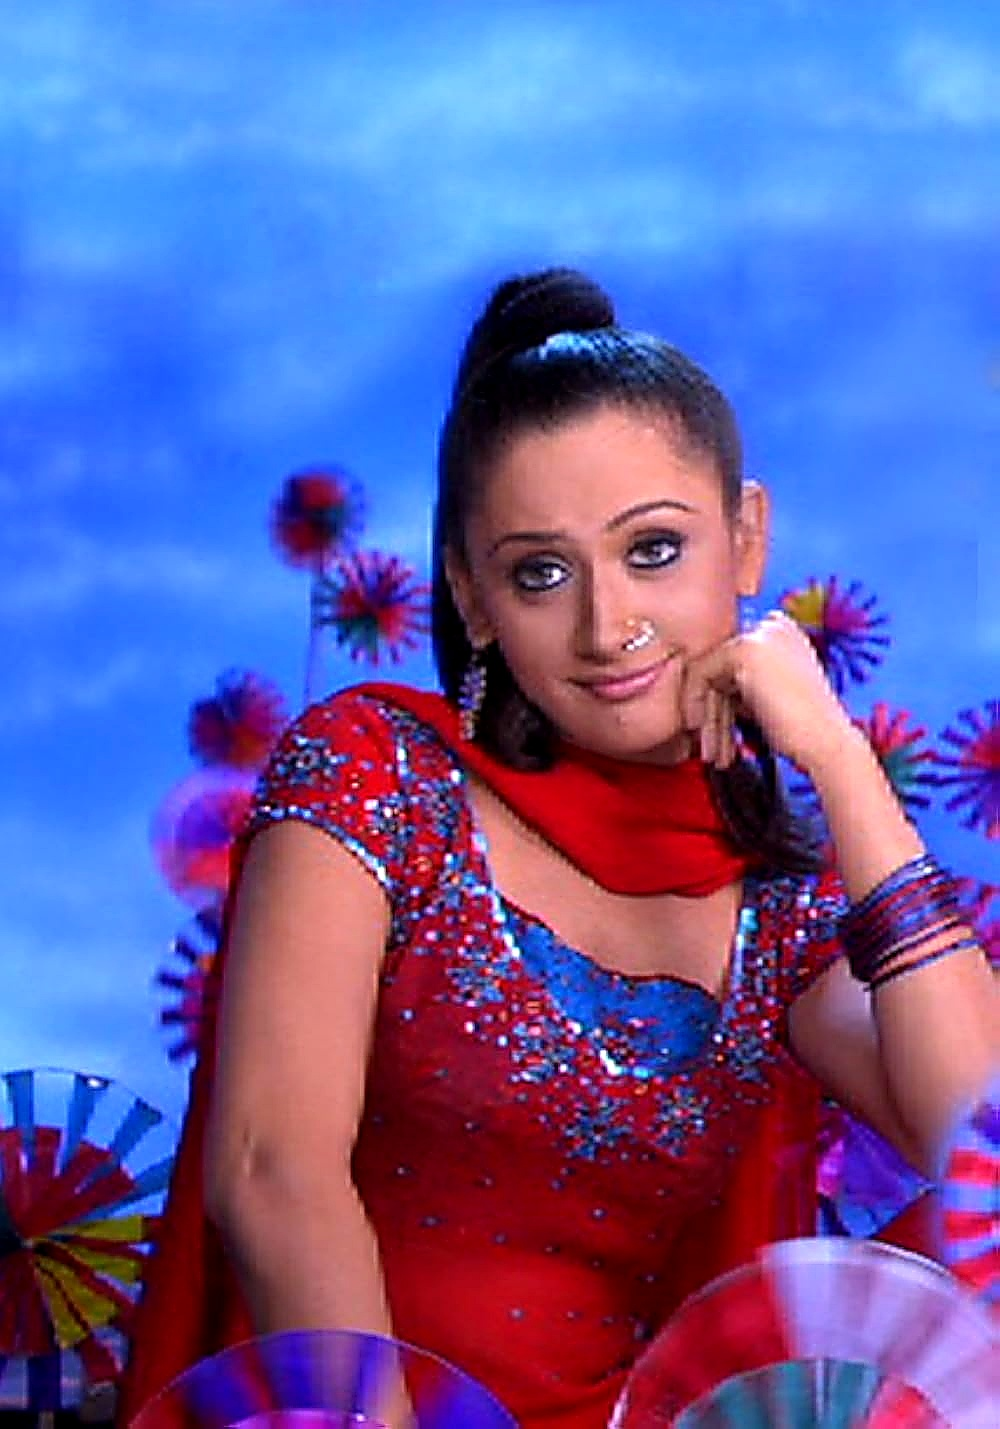
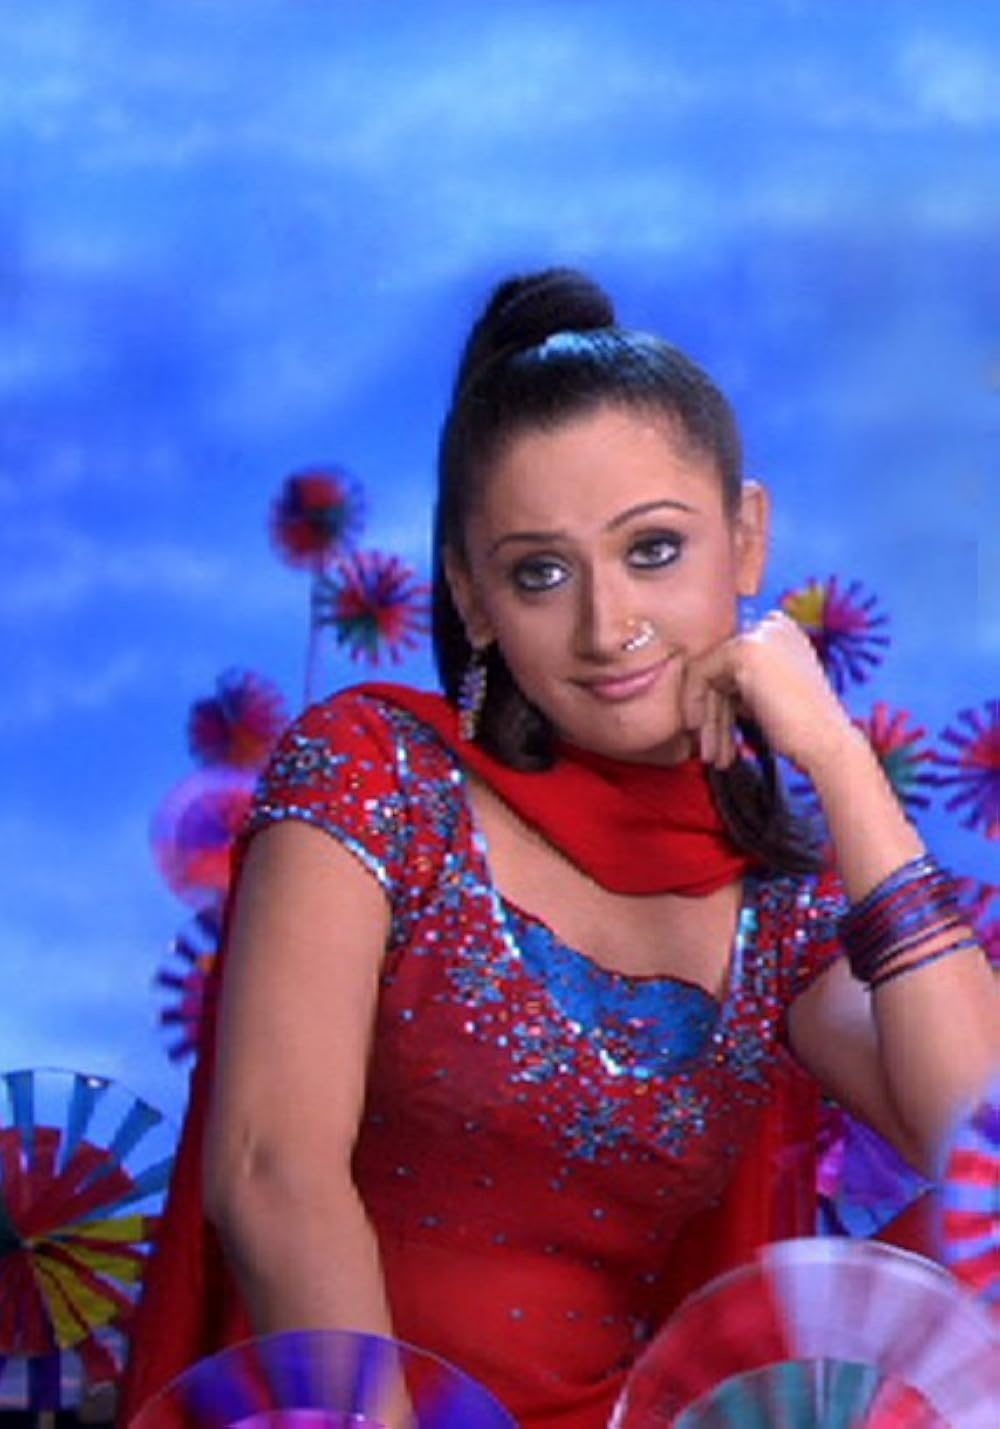
updates

diff --git a/src/data/content.js b/src/data/content.js
@@ -39,12 +39,12 @@ export const siteData = {
     headlineMain: 'people',
     headlineAccent: 'remember.',
     manifesto: 'We ideate, produce, collaborate, engage and deliver best-in-class audiovisuals for cinema, OTT and global brands.',
-    bgImage: '/assets/images/Paid Palki_ A Rural Love Story journey.png?v=3',
+    bgImage: '/assets/images/Paid Palki_ A Rural Love Story journey.png',
     slides: [
       {
         id: 1,
-        bgImage: '/assets/images/Paid Palki_ A Rural Love Story journey.png?v=3',
-        posterImg: '/assets/images/Paid Palki_ A Rural Love Story journey.png?v=3',
+        bgImage: '/assets/images/Paid Palki_ A Rural Love Story journey.png',
+        posterImg: '/assets/images/Paid Palki_ A Rural Love Story journey.png',
         subTag: 'Feature Film · In Filming'
       },
       {
@@ -100,13 +100,13 @@ export const siteData = {
     {
       id: 1,
       title: 'Paid Palki',
-      posterImg: '/assets/images/Paid Palki_ A Rural Love Story journey.png?v=3',
+      posterImg: '/assets/images/Paid Palki_ A Rural Love Story journey.png',
       client: 'S&P Chitralok Studios',
       credit: 'Writer & Dir. Pushpenddra Singh',
       cat: 'Film',
       year: 'In Filming',
       status: 'In Filming',
-      img: '/assets/images/Paid Palki_ A Rural Love Story journey.png?v=3'
+      img: '/assets/images/Paid Palki_ A Rural Love Story journey.png'
     },
     {
       id: 2,
@@ -200,7 +200,7 @@ export const siteData = {
       id: 1,
       cat: 'Film',
       title: 'Paid Palki',
-      posterImg: '/assets/images/Paid Palki_ A Rural Love Story journey.png?v=3',
+      posterImg: '/assets/images/Paid Palki_ A Rural Love Story journey.png',
       client: 'S&P Chitralok Studios',
       credit: 'Writer & Dir. Pushpenddra Singh',
       year: 'In Filming',
@@ -213,8 +213,8 @@ export const siteData = {
       screenplay: 'Pushpendrra Singh & Prragati Chauhaan',
       dialogues: 'Shashank Singh',
       dop: 'Shashank Sahu',
-      img: '/assets/images/Paid Palki_ A Rural Love Story journey.png?v=3',
-      bannerImg: '/assets/images/Paid Palki_ A Rural Love Story journey.png?v=3',
+      img: '/assets/images/Paid Palki_ A Rural Love Story journey.png',
+      bannerImg: '/assets/images/Paid Palki_ A Rural Love Story journey.png',
       synopsis: 'Set in the heart of rural Madhya Pradesh, Santu, an unmarried young man facing societal pressure, is persuaded to buy a bride from a remote tribal settlement. Captivated by Kemli, a sheltered tribal girl, he brings her home where genuine affection blossoms between them. But when Kemli’s family forcibly takes her back, Santu embarks on an emotional struggle to reunite with the woman he loves—a powerful story of love emerging from exploitation and the courage to challenge human trafficking.',
       stills: [
         { img: '/assets/images/paid_palki_poster.webp', title: 'Official Theatrical 1-Sheet Poster', tag: 'Theatrical Art' },
@@ -546,9 +546,9 @@ export const siteData = {
       director: 'Associate Dir. Pushpendra Singh',
       studio: 'STAR One & Balaji Telefilms',
       milestone: 'Beloved 200+ Episode Romantic Comedy',
-      posterImg: '/assets/images/kyaa_hoga_nimmo_kaa.webp?v=3',
-      img: '/assets/images/kyaa_hoga_nimmo_kaa.webp?v=3',
-      bannerImg: '/assets/images/kyaa_hoga_nimmo_kaa.webp?v=3',
+      posterImg: '/assets/images/kyaa_hoga_nimmo_kaa.webp?v=2',
+      img: '/assets/images/kyaa_hoga_nimmo_kaa.webp?v=2',
+      bannerImg: '/assets/images/kyaa_hoga_nimmo_kaa.webp?v=2',
       synopsis: 'A cheerful romantic comedy tracing the life of Nimmo, a charming middle-class girl with perpetual bad luck, whose unexpected arrangement with high-flying billionaire Kunal Sehgal evolves into genuine tenderness.',
       stills: [
         { img: '/assets/images/kyaa_hoga_nimmo_kaa.webp', title: 'Nimmo & Kunal Sehgal Humorous Moment', tag: '1280x720 HD Broadcast' },
@@ -926,7 +926,7 @@ export const siteData = {
         kind: 'Feature Film (Writer & Director)',
         network: 'S&P Chitralok Studios',
         role: 'Writer & Director',
-        img: '/assets/images/Paid Palki_ A Rural Love Story journey.png?v=3'
+        img: '/assets/images/Paid Palki_ A Rural Love Story journey.png'
       },
       {
         year: '2005',
@@ -1014,7 +1014,7 @@ export const siteData = {
         kind: 'Comedy Drama Series',
         network: 'STAR One / Balaji Telefilms',
         role: 'Associate Director',
-        img: '/assets/images/kyaa_hoga_nimmo_kaa.webp?v=3'
+        img: '/assets/images/kyaa_hoga_nimmo_kaa.webp?v=2'
       }
     ],
     awards: [

diff --git a/src/pages/Home.jsx b/src/pages/Home.jsx
@@ -101,7 +101,7 @@ export default function Home({ onOpenVideo }) {
           {/* Background Visual Carousel: Stacked Crossfading Images */}
           {heroSlides.map((slide, idx) => (
             <React.Fragment key={slide.id}>
-              {/* Ambient Blurred Background (Cinema Backdrop Glow) */}
+              {/* Ambient Blurred Background (Desktop Glow) */}
               <img
                 src={slide.bgImage}
                 alt=""
@@ -109,20 +109,20 @@ export default function Home({ onOpenVideo }) {
                 className="hero-slide-ambient"
                 style={{
                   position: 'absolute',
-                  inset: '-25px',
-                  width: 'calc(100% + 50px)',
-                  height: 'calc(100% + 50px)',
+                  inset: '-20px',
+                  width: 'calc(100% + 40px)',
+                  height: 'calc(100% + 40px)',
                   objectFit: 'cover',
                   objectPosition: 'center',
                   filter: 'blur(36px) brightness(0.35)',
-                  opacity: activeSlide === idx ? 0.9 : 0,
+                  opacity: activeSlide === idx ? 1 : 0,
                   transition: 'opacity 1.2s cubic-bezier(0.4, 0, 0.2, 1)',
                   pointerEvents: 'none',
-                  display: 'block'
+                  display: 'none'
                 }}
               />
 
-              {/* Crisp 100% High-Definition Main Visual (Full Uncut on Desktop & Mobile) */}
+              {/* Crisp Main Visual (Cinematic Cover on Desktop, Complete 100% Contain on Mobile) */}
               <img
                 src={slide.bgImage}
                 alt={`S&P Chitralok Studios Visual ${slide.id}`}
@@ -132,16 +132,36 @@ export default function Home({ onOpenVideo }) {
                   inset: 0,
                   width: '100%',
                   height: '100%',
-                  objectFit: 'contain',
-                  objectPosition: 'center center',
-                  filter: 'none',
+                  objectFit: 'cover',
+                  objectPosition: 'center top',
+                  filter: isScrolledDown ? 'brightness(0.68)' : 'brightness(0.92)',
                   opacity: activeSlide === idx ? 1 : 0,
-                  transition: 'opacity 1.2s cubic-bezier(0.4, 0, 0.2, 1)',
+                  transform: activeSlide === idx ? 'scale(1)' : 'scale(1.05)',
+                  transition: 'opacity 1.2s cubic-bezier(0.4, 0, 0.2, 1), transform 8s ease-out, filter 0.8s ease',
                   pointerEvents: 'none'
                 }}
               />
             </React.Fragment>
           ))}
+
+          <div className="hero-visual-gradient" style={{
+            position: 'absolute',
+            inset: 0,
+            background: isScrolledDown
+              ? 'linear-gradient(180deg, rgba(7,7,7,0.35) 0%, rgba(7,7,7,0.88) 100%)'
+              : 'linear-gradient(180deg, rgba(7,7,7,0.08) 0%, rgba(7,7,7,0.45) 100%)',
+            transition: 'background 0.8s ease',
+            pointerEvents: 'none'
+          }} />
+
+          {/* Left & Right Cinematic Edge Fade Vignettes (Like Hero 2) */}
+          <div className="hero-side-vignettes" style={{
+            position: 'absolute',
+            inset: 0,
+            background: 'linear-gradient(90deg, rgba(7,7,7,0.88) 0%, rgba(7,7,7,0) 20%, rgba(7,7,7,0) 80%, rgba(7,7,7,0.88) 100%)',
+            pointerEvents: 'none',
+            zIndex: 3
+          }} />
 
           {/* Carousel Navigation Arrow Buttons (Floating on sides) */}
           <div className="hero-arrow-nav" style={{
@@ -518,7 +538,7 @@ export default function Home({ onOpenVideo }) {
                     pointerEvents: 'none'
                   }}
                 />
-                {/* 100% Full Uncut High-Definition Main Image */}
+                {/* 100% Full Uncut Main Image */}
                 <img
                   src={work.img}
                   alt={work.title}
@@ -529,7 +549,6 @@ export default function Home({ onOpenVideo }) {
                     height: '100%',
                     objectFit: 'contain',
                     objectPosition: 'center',
-                    imageRendering: '-webkit-optimize-contrast',
                     transition: 'transform 0.6s cubic-bezier(0.16, 1, 0.3, 1)'
                   }}
                 />

diff --git a/src/pages/Directors.jsx b/src/pages/Directors.jsx
@@ -203,110 +203,6 @@ export default function Directors() {
           ))}
         </div>
       </section>
-
-      {/* Directorial Feature Spotlight: Pushpendra Singh Archive Banner */}
-      <section style={{ padding: '0 var(--container-pad) 96px' }}>
-        <div style={{
-          background: 'linear-gradient(135deg, rgba(22, 20, 17, 0.95) 0%, rgba(12, 11, 10, 0.98) 100%)',
-          border: '1px solid rgba(212, 166, 42, 0.28)',
-          borderRadius: '8px',
-          padding: 'clamp(28px, 4vw, 48px)',
-          display: 'flex',
-          flexWrap: 'wrap',
-          alignItems: 'center',
-          justifyContent: 'space-between',
-          gap: '24px',
-          boxShadow: '0 20px 50px rgba(0, 0, 0, 0.6)'
-        }}>
-          <div style={{ maxWidth: '640px', display: 'flex', flexDirection: 'column', gap: '10px' }}>
-            <span style={{
-              fontSize: '11px',
-              fontFamily: 'var(--font-mono)',
-              letterSpacing: '0.2em',
-              textTransform: 'uppercase',
-              color: 'var(--gold-primary)',
-              fontWeight: 600
-            }}>
-              CREATIVE DIRECTION &amp; CINEMATIC VISION
-            </span>
-            <h3 style={{
-              margin: 0,
-              fontFamily: 'var(--font-serif)',
-              fontSize: 'clamp(22px, 3vw, 34px)',
-              fontWeight: 600,
-              color: 'var(--text-primary)',
-              lineHeight: 1.2
-            }}>
-              Directorial Portfolio of <span style={{ fontStyle: 'italic', color: 'var(--gold-primary)' }}>Pushpendra Singh</span>
-            </h3>
-            <p style={{
-              margin: 0,
-              fontSize: '15px',
-              lineHeight: 1.6,
-              color: 'var(--text-light-sub)'
-            }}>
-              Explore landmark feature films Paid Palki, Aaoge Jab Tum, Sarkar (2005), and legendary television series including Kyunki Saas Bhi Kabhi Bahu Thi and Kahaani Ghar Ghar Kii.
-            </p>
-          </div>
-
-          <Link
-            to="/director"
-            className="ul"
-            style={{
-              display: 'inline-flex',
-              alignItems: 'center',
-              gap: '10px',
-              padding: '14px 28px',
-              background: 'rgba(212, 166, 42, 0.12)',
-              border: '1px solid var(--gold-primary)',
-              borderRadius: '4px',
-              color: 'var(--gold-primary)',
-              fontFamily: 'var(--font-mono)',
-              fontSize: '12px',
-              letterSpacing: '0.16em',
-              textTransform: 'uppercase',
-              fontWeight: 600,
-              textDecoration: 'none',
-              transition: 'all 0.25s ease'
-            }}
-            onMouseEnter={(e) => {
-              e.currentTarget.style.background = 'var(--gold-primary)';
-              e.currentTarget.style.color = '#070707';
-              e.currentTarget.style.transform = 'translateY(-2px)';
-            }}
-            onMouseLeave={(e) => {
-              e.currentTarget.style.background = 'rgba(212, 166, 42, 0.12)';
-              e.currentTarget.style.color = 'var(--gold-primary)';
-              e.currentTarget.style.transform = 'translateY(0)';
-            }}
-          >
-            <span>Explore Directorial Archive</span>
-            <span style={{ fontSize: '15px' }}>&rarr;</span>
-          </Link>
-        </div>
-      </section>
-
-      {/* Kinetic Typography Marquee Slider */}
-      <section style={{ margin: '0 0 64px' }}>
-        <KineticTicker
-          track1={[
-            'AMOD KUMAR SINGH',
-            'PAWAN KUMAR',
-            'KRISHNA PANDEY',
-            'BOARD OF DIRECTORS',
-            'S&P CHITRALOK STUDIOS'
-          ]}
-          track2={[
-            'STRATEGIC GOVERNANCE',
-            'CINEMATIC EXCELLENCE',
-            'AUTEUR VISION',
-            'FEATURE FILMS & SERIES'
-          ]}
-        />
-      </section>
-
-      {/* Footer / CTA Section */}
-      <GoldenCTA text="Collaborate with our Directors" link="/contact" />
     </div>
   );
 }

diff --git a/src/pages/Work.jsx b/src/pages/Work.jsx
@@ -185,7 +185,7 @@ export default function Work({ onOpenVideo }) {
                       pointerEvents: 'none'
                     }}
                   />
-                  {/* 100% Full Uncut High-Definition Main Image */}
+                  {/* 100% Full Uncut Main Image */}
                   <img
                     src={cardImg}
                     alt={work.title}
@@ -197,7 +197,6 @@ export default function Work({ onOpenVideo }) {
                       height: '100%',
                       objectFit: 'contain',
                       objectPosition: 'center',
-                      imageRendering: '-webkit-optimize-contrast',
                       transition: 'transform 0.45s cubic-bezier(0.16, 1, 0.3, 1)'
                     }}
                     loading="lazy"

diff --git a/src/pages/Director.jsx b/src/pages/Director.jsx
@@ -317,7 +317,7 @@ export default function Director({ onOpenVideo }) {
                     pointerEvents: 'none'
                   }}
                 />
-                {/* 100% Full Uncut High-Definition Main Image */}
+                {/* 100% Full Uncut Main Image */}
                 <img
                   src={item.img}
                   alt={item.title}
@@ -328,7 +328,6 @@ export default function Director({ onOpenVideo }) {
                     height: '100%',
                     objectFit: 'contain',
                     objectPosition: 'center',
-                    imageRendering: '-webkit-optimize-contrast',
                     transition: 'transform 0.4s ease'
                   }}
                   loading="lazy"

diff --git a/src/index.css b/src/index.css
@@ -2823,7 +2823,6 @@ button {
     object-position: center center !important;
     transform: none !important;
     filter: none !important;
-    image-rendering: -webkit-optimize-contrast !important;
   }
 
   .hero-visual-gradient {
